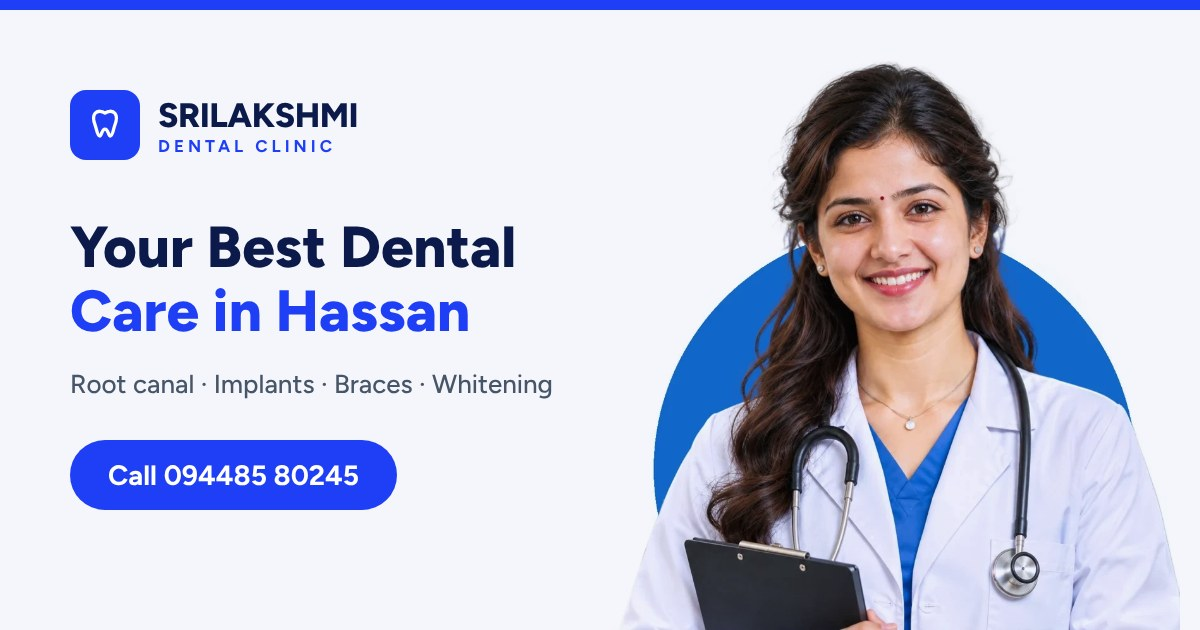
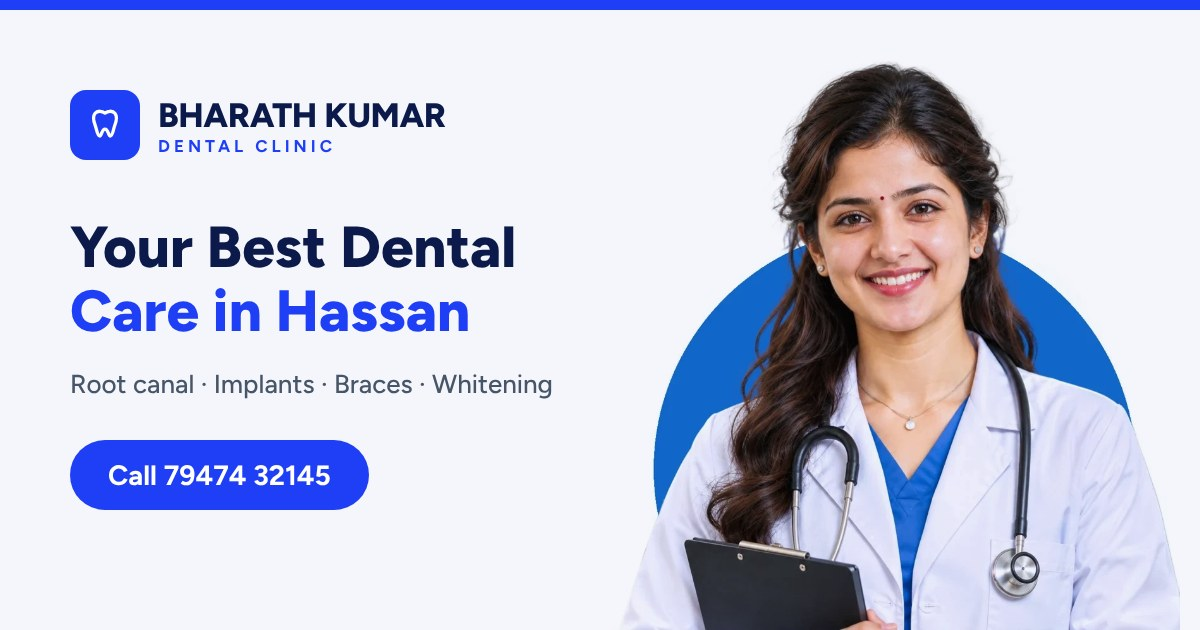
Set up site for Bharath Kumar Dental Clinic
Clinic name, doctor, phone, address, map and hours; hide testimonials until real reviews are added; regenerate share image.

Claude-Session: https://claude.ai/code/session_01QaGxT8yR4Spq8r2Ry93bUy

Changed region(s): [[0.1233, 0.6937, 0.3392, 0.8143], [0.1233, 0.1508, 0.37, 0.2111]]

diff --git a/site.config.js b/site.config.js
@@ -4,20 +4,20 @@
 // ─────────────────────────────────────────────────────────────────────────────
 
 // Live website address (no trailing slash). Used for SEO, sitemap and share links.
-const siteUrl = 'https://srilakshmi-dental-clinic.vercel.app'
+const siteUrl = 'https://bharathkumar-dental-clinic.vercel.app'
 
 const clinic = {
-  name: 'Srilakshmi Dental Clinic',
-  shortName: 'Srilakshmi', // used in the chat assistant title
-  doctor: 'Dr. SomShekhar',
+  name: 'Bharath Kumar Dental Clinic',
+  shortName: 'Bharath Kumar', // used in the chat assistant title
+  doctor: 'Dr. Bharath Kumar',
   doctorRole: 'Dental Surgeon',
-  phoneDisplay: '094485 80245', // how the number is shown
-  phoneTel: '+919448580245', // for tap-to-call (with country code)
-  whatsapp: '919448580245', // WhatsApp number: country code + number, digits only
+  phoneDisplay: '79474 32145', // how the number is shown
+  phoneTel: '+917947432145', // for tap-to-call (with country code)
+  whatsapp: '917947432145', // WhatsApp number: country code + number, digits only
   city: 'Hassan',
-  shortArea: 'Park Road, Hassan', // shown in the top bar
+  shortArea: 'Kalabhavana Road, Hassan', // shown in the top bar
   address: {
-    street: 'Ground floor, Park Rd, opp. to Sanskrutha Bhavana, Rangoli Halla',
+    street: 'Kalabhavana Road, above Mahalakshmi Sweets, opp. Maharaja Park, Penshan Mohalla',
     city: 'Hassan',
     region: 'Karnataka',
     regionCode: 'IN-KA',
@@ -25,22 +25,20 @@ const clinic = {
     country: 'IN',
   },
   addressLines: [
-    'Ground floor, Park Rd, opp. to Sanskrutha Bhavana',
-    'Rangoli Halla, Hassan, Karnataka 573201',
+    'Kalabhavana Road, above Mahalakshmi Sweets, opp. Maharaja Park',
+    'Penshan Mohalla, Hassan, Karnataka 573201',
   ],
   // What Google Maps should search for (map embed + "Get directions").
-  mapQuery: 'Srilakshmi Dental Clinic, Park Rd, opp. Sanskrutha Bhavana, Rangoli Halla, Hassan, Karnataka 573201',
-  // TODO: confirm the real clinic timings before going live.
+  mapQuery: 'DR BHARAT, Kalabhavana Road, opposite Maharaja Park, Penshan Mohalla, Hassan, Karnataka 573201',
   hours: [
-    { day: 'Monday – Saturday', time: '10:00 AM – 1:30 PM' },
-    { day: 'Evening', time: '5:00 PM – 8:30 PM' },
-    { day: 'Sunday', time: 'By appointment' },
+    { day: 'Monday – Saturday', time: '10:00 AM – 7:30 PM' },
+    { day: 'Sunday', time: 'Closed' },
   ],
 }
 
 // Logo text and colours. Colours are used across the whole site.
 const brand = {
-  logoTop: 'SRILAKSHMI',
+  logoTop: 'BHARATH KUMAR',
   logoBottom: 'Dental Clinic',
   colors: {
     primary: '#1E3FF5',
@@ -54,10 +52,10 @@ const brand = {
 // Search engine and social-share text.
 const seo = {
   title: `${clinic.name} | Best Dentist in ${clinic.city}, ${clinic.address.region}`,
-  description: `${clinic.name} on Park Road, ${clinic.city} offers root canal treatment, dental implants, braces, teeth whitening, crowns and kids dentistry by ${clinic.doctor}. Call ${clinic.phoneDisplay} to book.`,
+  description: `${clinic.name} on Kalabhavana Road, ${clinic.city} offers root canal treatment, dental implants, braces, teeth whitening, crowns and kids dentistry by ${clinic.doctor}. Call ${clinic.phoneDisplay} to book.`,
   keywords: `dentist in ${clinic.city}, dental clinic ${clinic.city}, ${clinic.name}, ${clinic.doctor}, root canal ${clinic.city}, dental implants ${clinic.city}, braces ${clinic.city}, teeth whitening ${clinic.city}`,
   shareTitle: `${clinic.name} | Dentist in ${clinic.city}`,
-  shareDescription: `Gentle, modern dental care for the whole family on Park Road, ${clinic.city}. Book with ${clinic.doctor}: ${clinic.phoneDisplay}.`,
+  shareDescription: `Gentle, modern dental care for the whole family on Kalabhavana Road, ${clinic.city}. Book with ${clinic.doctor}: ${clinic.phoneDisplay}.`,
   shareTagline: 'Root canal · Implants · Braces · Whitening', // line on the link-preview image
   locale: 'en_IN',
   priceRange: '₹₹',
@@ -81,7 +79,7 @@ const text = {
     eyebrow: 'About Us',
     title: 'Expert, Gentle Care',
     highlight: 'for Every Smile',
-    body: `${clinic.name} is a family dental clinic on Park Road, ${clinic.city}, led by ${clinic.doctor}. We focus on comfortable treatment, clear explanations and results that last — so every visit leaves you smiling.`,
+    body: `${clinic.name} is a family dental clinic on Kalabhavana Road, ${clinic.city}, led by ${clinic.doctor}. We focus on comfortable treatment, clear explanations and results that last — so every visit leaves you smiling.`,
     points: [
       'Complete dental care under one roof',
       'Sterilised instruments and modern equipment',
@@ -149,18 +147,16 @@ const steps = [
   { title: 'Ongoing Care & Follow-Up', icon: 'HeartPulse', text: 'Follow-up visits and tips to keep your results healthy for years.' },
 ]
 
-// TODO: replace these with real patient reviews (e.g. from Google) before going live.
-const testimonials = [
-  { name: 'Patient name', role: 'Root Canal Treatment', rating: 5, title: 'Painless and Professional', text: 'Replace this text with a real review from one of your patients. Short, specific reviews work best.' },
-  { name: 'Patient name', role: 'Teeth Cleaning', rating: 5, title: 'Highly Recommended', text: 'Replace this text with a real review from one of your patients. Mention the treatment they received.' },
-  { name: 'Patient name', role: 'Braces', rating: 5, title: 'Friendly and Caring', text: 'Replace this text with a real review from one of your patients, with their permission.' },
-]
+// Add real patient reviews (with permission) here, e.g.
+// { name: 'Name', role: 'Root Canal Treatment', rating: 5, title: 'Painless', text: '...' }
+// The Testimonials section stays hidden while this list is empty.
+const testimonials = []
 
 // Also used by the chat assistant and Google's FAQ results.
 const faqs = [
   { q: 'What services do you offer?', a: 'We offer complete dental care: check-ups and cleaning, fillings, root canal treatment, extractions, crowns and bridges, dental implants, braces and aligners, teeth whitening, smile makeovers and children’s dentistry.' },
   { q: 'Do I need to make an appointment?', a: `Appointments are recommended so we can keep waiting time short. Call ${clinic.phoneDisplay} or send a WhatsApp message and we will confirm a time.` },
-  { q: 'Do you accept walk-in patients?', a: 'Yes, walk-ins are welcome during clinic hours. Patients with appointments are seen first, so calling ahead is best.' },
+  { q: 'Do you accept walk-in patients?', a: 'Yes, walk-ins are welcome during clinic hours (Monday to Saturday, 10 AM – 7:30 PM; closed on Sunday). Patients with appointments are seen first, so calling ahead is best.' },
   { q: 'What should I do in a dental emergency?', a: `For severe tooth pain, swelling, a broken tooth or injury, call us immediately on ${clinic.phoneDisplay}. We will do our best to see you the same day.` },
   { q: 'Is root canal treatment painful?', a: 'Modern root canal treatment is done under local anaesthesia and feels similar to getting a filling. It actually relieves the pain caused by the infected tooth.' },
   { q: 'How often should I visit the dentist?', a: 'A check-up and cleaning every six months is recommended for most people. Some gum or orthodontic treatments need more frequent visits.' },

diff --git a/src/components/Sections.jsx b/src/components/Sections.jsx
@@ -64,6 +64,7 @@ export function BeforeAfter() {
 export function Testimonials() {
   const [i, setI] = useState(0)
   const n = testimonials.length
+  if (n === 0) return null
   const pair = [testimonials[i % n], testimonials[(i + 1) % n]]
   return (
     <section className="bg-navy py-20 lg:py-28">

diff --git a/README.md b/README.md
@@ -1,6 +1,6 @@
-# Srilakshmi Dental Clinic — Website
+# Bharath Kumar Dental Clinic — Website
 
-React + Vite + Tailwind CSS + Framer Motion. Live at https://srilakshmi-dental-clinic.vercel.app
+React + Vite + Tailwind CSS + Framer Motion. Live at https://bharathkumar-dental-clinic.vercel.app
 
 ```bash
 npm install
@@ -16,8 +16,8 @@ Photos are in `public/images/`.
 **Reusing this site for another clinic:** see [TEMPLATE.md](TEMPLATE.md).
 
 ## Before going live
-- **Clinic hours** in `site.config.js` are placeholders — confirm the real timings.
-- **Testimonials** in `site.config.js` are placeholders — replace with real patient reviews.
+- **Testimonials** are empty (section hidden) — add real patient reviews in `site.config.js`.
+- **Photos** in `public/images/` are from the template — replace with the clinic's own.
 
 ## Features
 - Booking form that sends details to the clinic's WhatsApp
